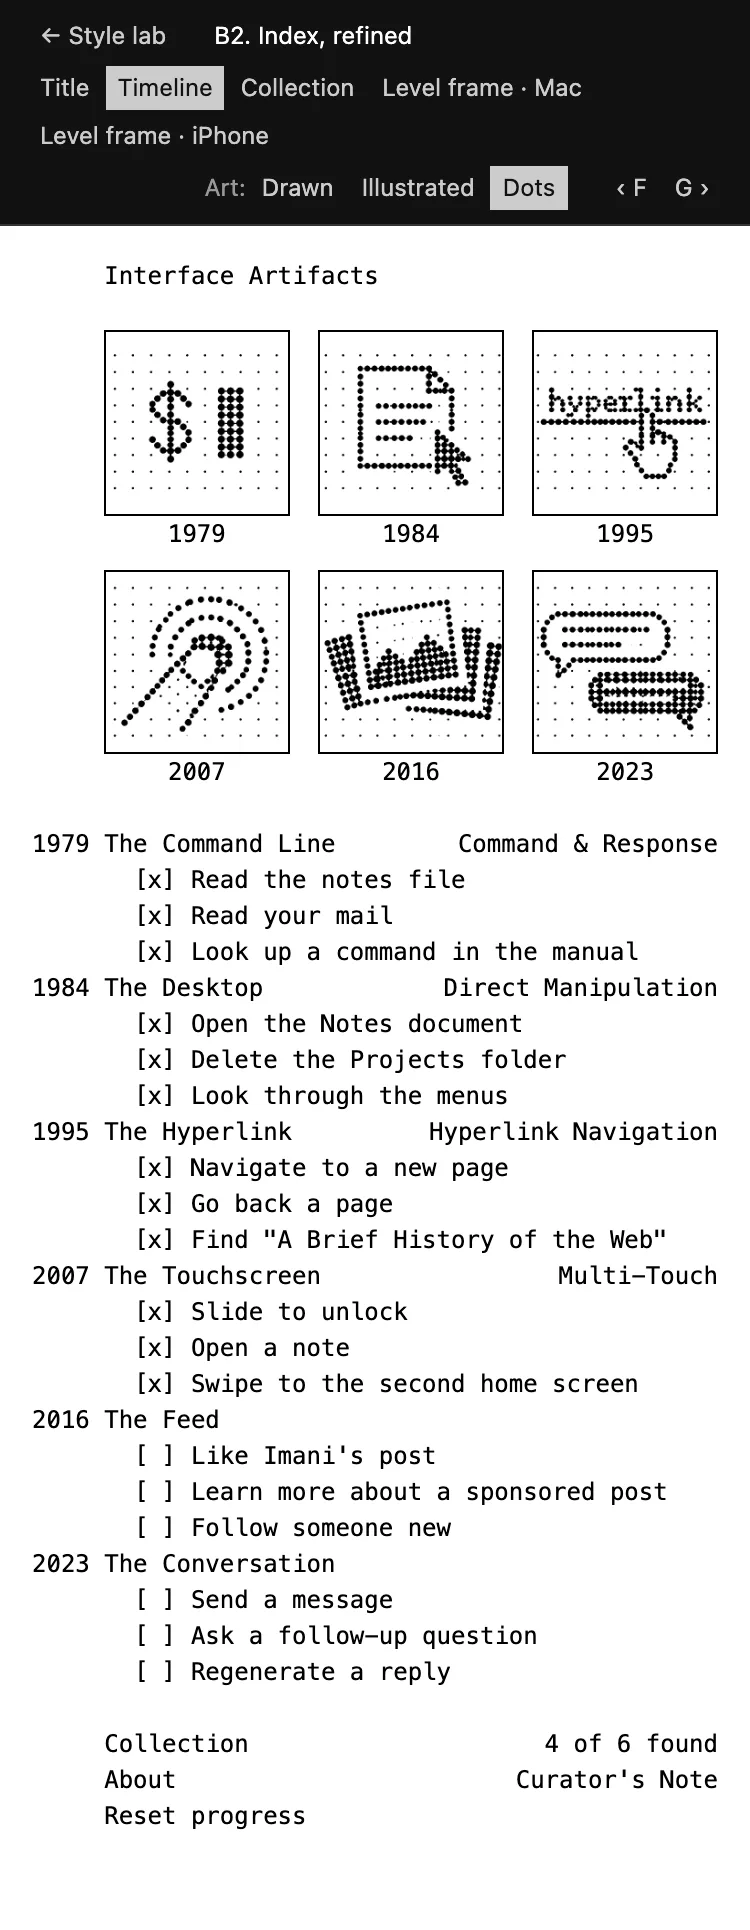
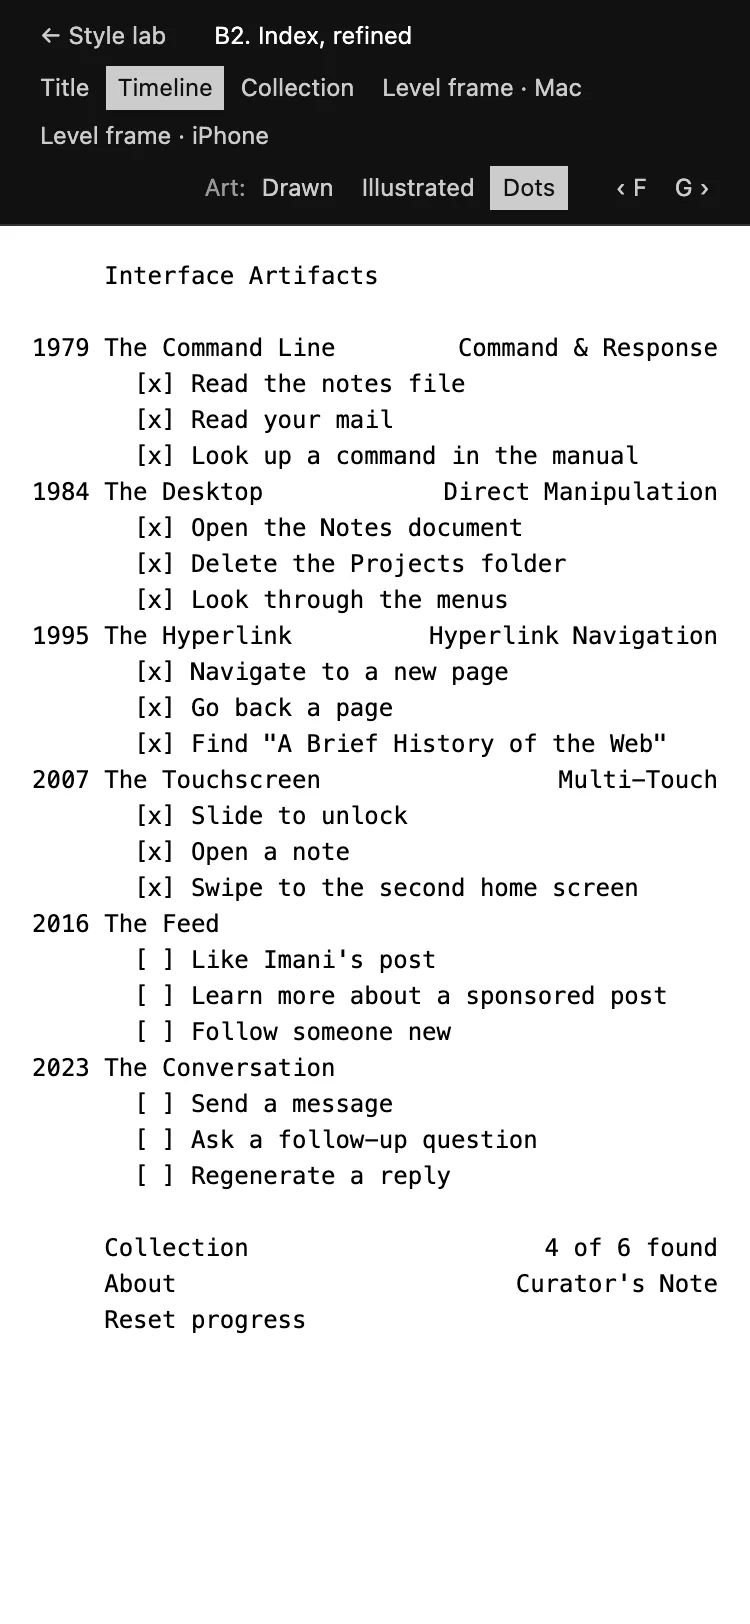
Backlog: B2 iteration to Done (squares removed, screenshots retaken); superseded by the index museum

diff --git a/docs/backlog.md b/docs/backlog.md
@@ -124,6 +124,7 @@ Phase 1, the style lab, is built in two rounds (see Done, 10 Nov 2026). Open `/s
     - **G (punch card):** he doesn't like the direction. Dropped. He does like its dot illustrations.
     - **B2:** takes the dot illustrations. His examples: pointing at a level shows its small illustration on the right; little squares with the illustration in them open the levels; the collection cards change to match. Built the same day, see Done. B2 is the direction in hand.
     - G is still in the lab, and the six illustration files are in its folder (`src/pages/styleLab/g/`). Deleting G would mean moving them first.
+    - **B2 iteration (10 Nov 2026):** the row of six squares was removed (see Done). Then Matthew chose the B / B2 direction for the real museum: see Approved, "the index museum". B2 stays in the lab as reference and changes no further.
 - **Phase 3 (needs its own approval):**
   - Set up museum tokens on `:root` and restyle one component per commit.
   - Align the collection cards and card lab with the new style.
@@ -134,15 +135,6 @@ Phase 1, the style lab, is built in two rounds (see Done, 10 Nov 2026). Open `/s
 ---
 
 ## Approved
-
-### Museum: style lab, B2 iteration with Matthew · approved 10 Nov 2026
-Matthew is iterating on B2 in a separate chat, live, while he looks at it. Work in B2 only (`src/pages/styleLab/B2_Index.jsx` and `.module.css`, plus the shared lab files if needed). Nothing outside the lab changes. He'll give more changes in that chat. Fold each one in, commit and push it on its own, and ask him when something is unclear rather than guessing.
-
-- **First change: remove the row of six squares** on every B2 screen (title, timeline, collection, both level frames), along with the links, hover states and "you are here" marking they carried.
-  - **Why:** the squares repeat the pictures. Pointing at a room's line already shows its dot illustration on the right, and that's the only picture interaction the title and timeline need.
-  - **Keep:** the hover and focus preview beside the list, and the dot illustrations on the collection cards.
-  - **In a level frame,** the squares marked the room you're in. Check that the room's highlighted line in the list does that job on its own. If it doesn't, show Matthew the options before adding anything.
-- **When the chat ends:** move this entry to Done with a list of what changed. Retake the B2 screenshots in `docs/style-lab/b2-index-refined/` and run the tests and the build. Update the "Museum restyle" entry under Ideas with where B2 stands.
 
 ### Museum: the index museum, built for real behind a switch · approved 10 Nov 2026
 Matthew is going with the B / B2 direction: one monospace list that is the whole museum. B2 was a concept in the lab, not a finished design. This pass turns it into a complete museum that runs the real game, and keeps the current museum ("Classic") one switch away, because Matthew is still concepting. Run it as a live chat with Matthew. Build a first full version, show him, then take his changes one at a time, committing and pushing each.
@@ -197,6 +189,14 @@ Matthew is going with the B / B2 direction: one monospace list that is the whole
 ---
 
 ## Done
+
+### Museum: style lab, B2 iteration with Matthew · 10 Nov 2026
+From Approved. One change was made before the index museum entry superseded it.
+- **The row of six squares is gone** from every B2 screen (title, timeline, collection, both level frames), along with its links, hover states and "you are here" marking. A blank line sits where it was.
+- **Kept:** the hover and focus preview beside the list, and the dot illustrations on the collection cards; a card and its line still light together.
+- **In a level frame** the room's own line is black and its intro and objectives open under it, so it marks the room you're in without the squares. Nothing was added.
+- **Checked:** 149 tests (the squares test is now "no squares; in a room only its line is marked"); `npm run build`; the Mac frame, the timeline with the pointer on a line and the collection in the browser, no console errors. Screenshots in `docs/style-lab/b2-index-refined/` retaken.
+- **Superseded** by "the index museum, built for real behind a switch". The lab stays as reference.
 
 ### Museum: style lab, B2 takes the dot illustrations · 10 Nov 2026
 Asked for in chat after Matthew's read of round 2 (under Ideas, "Museum restyle"), not from Approved. Changed in B2 itself, not as a new concept; three commits, one per feature.
